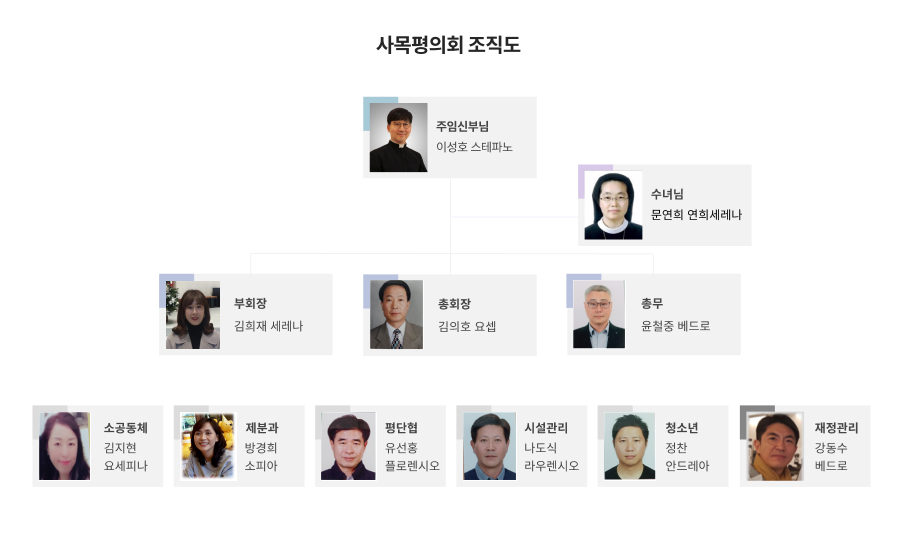
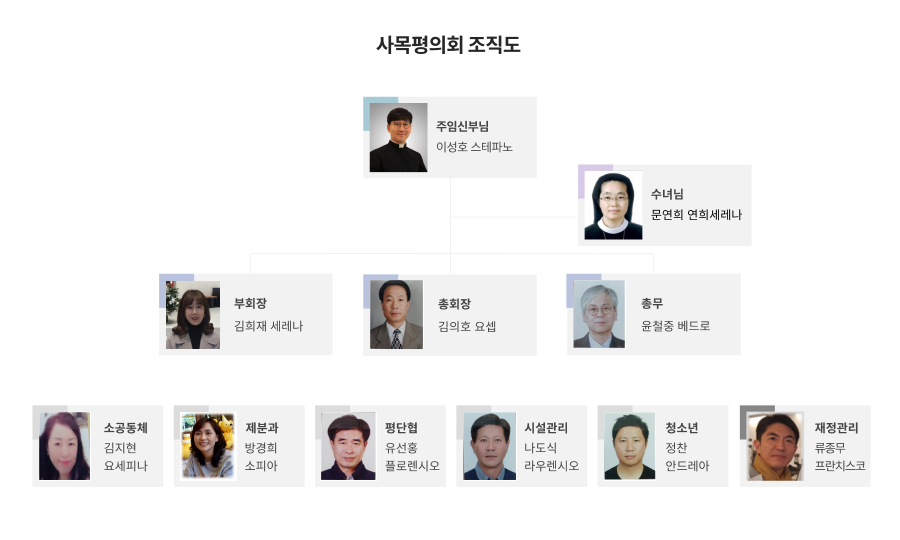
230328_조직도 이미지 및 내용 수정

Changed region(s): [[0.6222, 0.5037, 0.7156, 0.6519], [0.9022, 0.8, 0.9644, 0.8889]]

diff --git a/sub0104.html b/sub0104.html
@@ -34,6 +34,150 @@ include_once('top.php');
                                 <div class="history_area">
                                     <ul>
                                         <li class="border">
+                                        <span>2022년</span>
+                                        <dl>
+                                          <dt style="height:28px">1월</dt>
+                                          <dt>1일(토)</dt>
+                                          <dd>천주의 성모 마리아 대축일(11:00)</dd>
+                                        </dl>
+                                        <dl>
+                                          <dt style="height:50px">2월</dt>
+                                          <dt>1일(화)</dt>
+                                          <dd>설 미사 11:00</dd>
+                                          <dt>20일(주일)</dt>
+                                          <dd>전신자 재정 보고</dd>
+                                        </dl>
+                                        <dl>
+                                          <dt style="height:25px">3월</dt>
+                                          <dt>11일(금)~17일(목)</dt>
+                                          <dd>지하실 닥트공사</dd>
+                                          <dt>29(화),31일(목)</dt>
+                                          <dd>지역판공</dd>
+                                        </dl>
+                                        <dl>
+                                          <dt style="height:25px">4월</dt>
+                                          <dt>17일(주일)</dt>
+                                          <dd>부활 대축일 미사 11:00. 19:30</dd>
+                                        </dl>
+                                        <dl>
+                                          <dt style="height:35px">5월</dt>
+                                          <dt>22일(토)</dt>
+                                          <dd>세례식 5명</dd>
+                                        </dl>
+                                        <dl>
+                                          <dt style="height:27px">6월</dt>
+                                          <dt>5일(주일)</dt>
+                                          <dd>견진성사(43명 / 5월 8, 15, 22, 29일 견진교리)</dd>
+                                          <dt>12일(주일)</dt>
+                                          <dd>지하실 공사 전신자 보고</dd>
+                                          <dt>19일(주일)</dt>
+                                          <dd>첫 영성체식(13명)</dd>
+                                          <dt>25일(토)</dt>
+                                          <dd>새 영세자 성지순례(미리내)</dd>
+                                        </dl>
+                                        <dl>
+                                          <dt style="height:50px">7월</dt>
+                                          <dt>23일(토)</dt>
+                                          <dd>초등부 신앙캠프(본당)</dd>
+                                          <dt>24일(주일)</dt>
+                                          <dd>증고등부 신앙캠프(본당)</dd>
+                                        </dl>
+                                        <dl>
+                                          <dt style="height:35px">8월</dt>
+                                          <dt>5(금)~6(토)</dt>
+                                          <dd>청년 MT</dd>
+                                        </dl>
+                                        <dl>
+                                          <dt style="height:50px">9월</dt>
+                                          <dt>25일(주일)</dt>
+                                          <dd>어린이 복사 입단식(4명)</dd>
+                                        </dl>
+                                        <dl>
+                                          <dt style="height:27px">10월</dt>
+                                          <dt>2일(주일)</dt>
+                                          <dd>본당의 날 미사</dd>
+                                          <dt>8일(토)</dt>
+                                          <dd>레지오 전단원 교육</dd>
+                                          <dt>10일(월)</dt>
+                                          <dd>홍보용 LCD 모니터 설치(1층 로비)</dd>
+                                          <dt>30일(주일)</dt>
+                                          <dd>예비자 입교식</dd>
+                                        </dl>
+                                        <dl>
+                                          <dt style="height:50px">11월</dt>
+                                          <dt>19일(토)</dt>
+                                          <dd>초등부 6학년 견진(보정성당, 6명)</dd>
+                                        </dl>
+                                        <dl>
+                                          <dt style="height:70px">12월</dt>
+                                          <dt>3일(토)</dt>
+                                          <dd>레지오 연차 총 친목회</dd>
+                                          <dt>7일(수)~17일(토)</dt>
+                                          <dd>지하실 바닥 돌 공사</dd>
+                                          <dt>25일(토)</dt>
+                                          <dd>성탄 대축일 미사 (제 10기 상임위 출범, 총회장 김의호 요셉)</dd>
+                                        </dl>
+                                      </li>
+                                        <li class="border">
+                                            <span>2021년</span>
+                                            <dl>
+                                                <dt style="height:50px">1월</dt>
+                                                <dt>1일(수)</dt>
+                                                <dd>천주의 성모 마리아 대축일(10:00)</dd>
+                                                <dt>16(토)</dt>
+                                            </dl>
+                                            <dl>
+                                                <dt style="height:50px">2월</dt>
+                                                <dt>7일(주일)</dt>
+                                                <dd>초등부 졸업식</dd>
+                                                <dt>28일(주일)</dt>
+                                                <dd>전신자 회계보고</dd>
+                                            </dl>
+                                            <dl>
+                                                <dt style="height:25px">3월</dt>
+                                                <dt>23일(화),25일(목)</dt>
+                                                <dd>지역판공(부활)</dd>
+                                            </dl>
+                                            <dl>
+                                                <dt style="height:25px">4월</dt>
+                                                <dt>4일(주일)</dt>
+                                                <dd>주님 부활 대축일:예수성심상 제막식</dd>
+                                            </dl>
+                                            <dl>
+                                                <dt style="height:50px">5월</dt>
+                                                <dt>1일(토)</dt>
+                                                <dd>세례식 4명(초등부 첫영성체 아이들), 16:00</dd>
+                                                <dt>9일(주일)</dt>
+                                                <dd>예비자 입교식</dd>
+                                            </dl>
+                                            <dl>
+                                                <dt style="height:27px">6월</dt>
+                                                <dt>6일(주일)</dt>
+                                                <dd>첫 영성체식 7명, 16:00</dd>
+                                                <dt>15일(화)</dt>
+                                                <dd>사제 인사 이동(제 6대 주임신부 이성호 스테파노 부임)</dd>
+                                            </dl>
+                                            <dl>
+                                                <dt style="height:27px">10월</dt>
+                                                <dt>17일(주일)</dt>
+                                                <dd>주교 주례미사 11:00 교중(이성효 리노 주교님)<br/> 성경 필사 축복장 전달(완필 13명, 신약1명, 구약 1명)</dd>
+                                            </dl>
+                                            <dl>
+                                                <dt style="height:50px">11월</dt>
+                                                <dt>21일(주일)</dt>
+                                                <dd>초등부 6학년 견진 5명, 11:00</dd>
+                                            </dl>
+                                            <dl>
+                                                <dt style="height:95px">12월</dt>
+                                                <dt>14일(화),16일(목) <br/> 지역판공(성탄)</dt>
+                                                <dd>전교 수녀 인사 이동(문연희 연희세레나 수녀 부임)</dd>
+                                                <dt>24일(금)</dt>
+                                                <dd>성탄 밤미사 21:00</dd>
+                                                <dt>25일(토)</dt>
+                                                <dd>성탄 대축일 미사 11:00</dd>
+                                            </dl>
+                                        </li>
+                                        <li class="border">
                                             <span>2020년</span>
                                             <dl>
                                                 <dt style="height:120px">1월</dt>
@@ -350,7 +494,7 @@ include_once('top.php');
                                                 <dd>사벌성당(안동) 성전건립 물품판매</dd>
                                             </dl>
                                             <dl>
-                                                <dt style="height:200px">12월</dt>
+                                                <dt style="height:220px">12월</dt>
                                                 <dt>1일</dt>
                                                 <dd>레지오 연차 총 친목회 12:30~<br/>
                                                 초등부 6학년 견진(보정성당)</dd>

diff --git a/sub0202.html b/sub0202.html
@@ -37,7 +37,7 @@ include_once('top.php');
                                   <span class="sub_disc">주임신부님의 사목 방침에 따라 본당의 복음화 활동을 계획하고 추진하는 위원회</span>
                                 </div>
                                 <div class="content">
-                                  <img src="image/1.jpg" alt="상하성당 제분과 위원회 조직도 이미지"/>
+                                  <img src="image/part_org_2022.jpg" alt="상하성당 제분과 위원회 조직도 이미지"/>
                                 </div>
                                 <table class="tg" style="table-layout: fixed; width: 858px">
                                     <colgroup>
